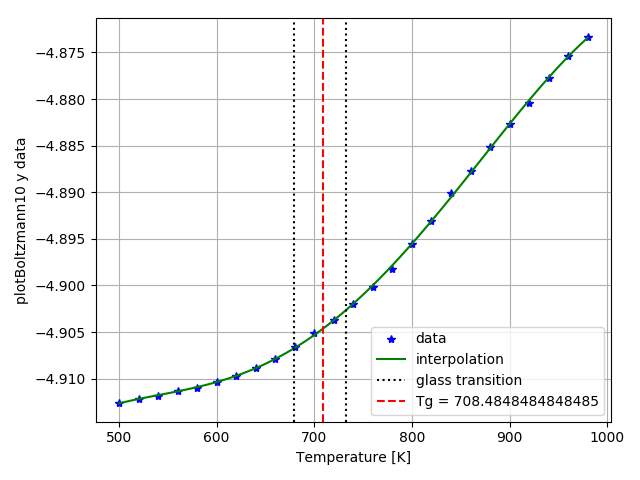
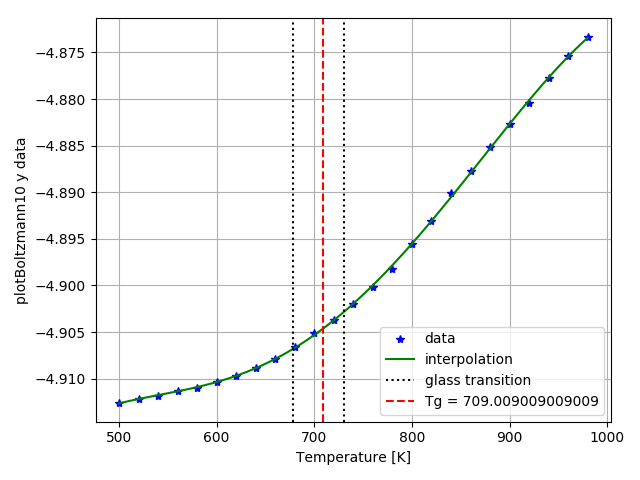
Made the plot maker an executable.

diff --git a/plots.py b/plots.py
@@ -1,3 +1,5 @@
+#!/usr/bin/python3
+
 from scipy.interpolate import UnivariateSpline as interpolate
 from matplotlib import pyplot as pl
 
@@ -94,7 +96,7 @@ for key, value in data.items():
     y = y[condition]
 
     s = interpolate(x=x, y=y, k=5, s=1)
-    xfit = np.linspace(x[0], x[-1], 100)
+    xfit = np.linspace(x[0], x[-1], 1000)
     yfit = s(xfit)
 
     xcut, left, right = opt(xfit, yfit)
